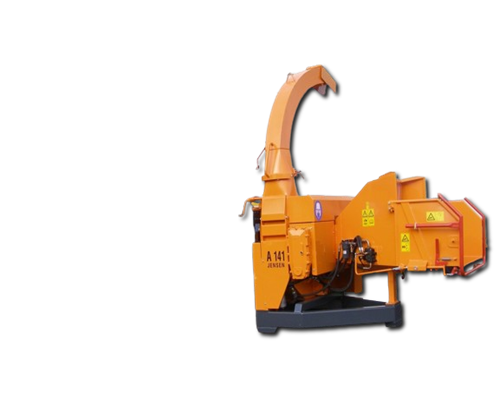
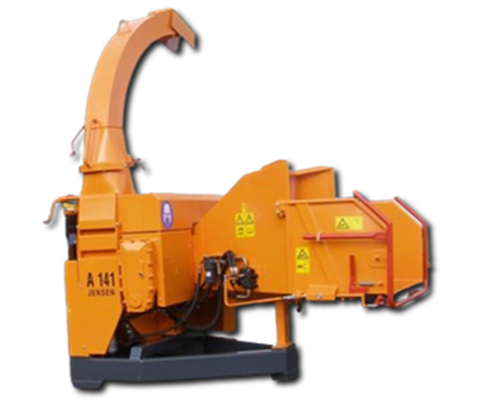
avanzando con imagenes pto

diff --git a/data/jensen.js b/data/jensen.js
@@ -219,7 +219,12 @@ export default [
     {
         "modelo":"A 141 XL PTO",
         "categoria":"Chipeadoras PTO",
-        "imagen":["/chipeadora/jensen/chipeadora_pto/A141-XL.png"],
+        "imagen":[
+            "/chipeadora/jensen/chipeadora_pto/A141-XL.png",
+            "/chipeadora/jensen/chipeadora_pto/A141-XL/A141-XL-SIN-FONDO-1.png",
+            "/chipeadora/jensen/chipeadora_pto/A141-XL/A141-XL-SIN-FONDO-2.png",
+            "/chipeadora/jensen/chipeadora_pto/A141-XL/A141-XL-SIN-FONDO-3.png"
+        ],
         "imagenPlano":"/chipeadora/jensen/chipeadora_pto/A141-XL/A141-XL-PLANO.jpg",
         "alt":"Chipeadora A 141 XL PTO",
         "descripcion":"Las Chipeadoras PTO son una excelente opción para usuarios con tractores o vehículos especiales. Son máquinas robustas, potentes y compactas. Todas las máquinas funcionan con un sistema hidráulico completamente independiente solo necesitando la alimentación del vehículo. El requisito de potencia del modelo A 141 XL PTO es de 82 [hp], y está disponible para montaje en tractores o vehículos con enganche de 3 puntos, con extensión cardánica o placa de montaje.",
@@ -238,7 +243,11 @@ export default [
     {
         "modelo":"A 231",
         "categoria":"Chipeadoras PTO",
-        "imagen":["/chipeadora/jensen/chipeadora_pto/A231.png"],
+        "imagen":[
+            "/chipeadora/jensen/chipeadora_pto/A231.png",
+            "/chipeadora/jensen/chipeadora_pto/A231/A231-PTO-SIN-FONDO-1.png",
+            "/chipeadora/jensen/chipeadora_pto/A231/A231-PTO-SIN-FONDO-2.png"
+        ],
         "imagenPlano":"/chipeadora/jensen/chipeadora_pto/A231/A231-PLANO.jpg",
         "alt":"Chipeadora A 231 PTO",
         "descripcion":"Las Chipeadoras PTO son una excelente opción para usuarios con tractores o vehículos especiales. Son máquinas robustas, potentes y compactas. Todas las máquinas funcionan con un sistema hidráulico completamente independiente solo necesitando la alimentación del vehículo. l requisito de potencia del modelo A231 PTO es de 75 [hp], y está disponible para montaje en tractores o vehículos con enganche de 3 puntos, con extensión cardánica o placa de montaje.",
@@ -257,7 +266,12 @@ export default [
     {
         "modelo":"A 328 ",
         "categoria":"Chipeadoras PTO",
-        "imagen":["/chipeadora/jensen/chipeadora_pto/A328.png"],
+        "imagen":[
+            "/chipeadora/jensen/chipeadora_pto/A328.png",
+            "/chipeadora/jensen/chipeadora_pto/A328/A328-SIN-FONDO-1.png",
+            "/chipeadora/jensen/chipeadora_pto/A328/A328-SIN-FONDO-2.png",
+            "/chipeadora/jensen/chipeadora_pto/A328/A328-SIN-FONDO-3.png",
+        ],
         "imagenPlano":"/chipeadora/jensen/chipeadora_pto/A328/A328-PLANO.jpg",
         "alt":"Chipeadora A 328 PTO",
         "descripcion":"Las Chipeadoras PTO son una excelente opción para usuarios con tractores o vehículos especiales. Son máquinas robustas, potentes y compactas. Todas las máquinas funcionan con un sistema hidráulico completamente independiente solo necesitando la alimentación del vehículo. El requisito de potencia del modelo A328 PTO es de 68 [hp], y está disponible para montaje en tractores o vehículos con enganche de 3 puntos, con extensión cardánica o placa de montaje.",
@@ -295,7 +309,10 @@ export default [
     {
         "modelo":"A 540 PTO",
         "categoria":"Chipeadoras PTO",
-        "imagen":["/chipeadora/jensen/chipeadora_pto/A540.png"],
+        "imagen":[
+            "/chipeadora/jensen/chipeadora_pto/A540.png",
+            "/chipeadora/jensen/chipeadora_pto/A540/A540-PTO-SIN-FONDO-1.png"
+        ],
         "imagenPlano":"/chipeadora/jensen/chipeadora_pto/A540/A540-PLANO.jpg",
         "alt":"Chipeadora A 540 PTO",
         "descripcion":"Las Chipeadoras PTO son una excelente opción para usuarios con tractores o vehículos especiales. Son máquinas robustas, potentes y compactas. Todas las máquinas funcionan con un sistema hidráulico completamente independiente solo necesitando la alimentación del vehículo. El requisito de potencia del modelo A540 PTO es de 40 [HP], y está disponible para montaje en tractores o vehículos con enganche de 3 puntos, con extensión cardánica o placa de montaje.",
@@ -314,7 +331,12 @@ export default [
     {
         "modelo":"A 530 XL",
         "categoria":"Chipeadoras PTO",
-        "imagen":["/chipeadora/jensen/chipeadora_pto/A530-XL.png"],
+        "imagen":[
+            "/chipeadora/jensen/chipeadora_pto/A530-XL.png",
+            "/chipeadora/jensen/chipeadora_pto/A530/A530-PTO-SIN-FONDO-1.png",
+            "/chipeadora/jensen/chipeadora_pto/A530/A530-PTO-SIN-FONDO-2.png",
+
+        ],
         "imagenPlano":"/chipeadora/jensen/chipeadora_pto/A530/A530-PLANO.jpg",
         "alt":"Chipeadora A 530 XL PTO",
         "descripcion":"Las Chipeadoras PTO son una excelente opción para usuarios con tractores o vehículos especiales. Son máquinas robustas, potentes y compactas. Todas las máquinas funcionan con un sistema hidráulico completamente independiente solo necesitando la alimentación del vehículo. El requisito de potencia del modelo A530 XL PTO es de 30 [hp], y está disponible para montaje en tractores o vehículos con enganche de 3 puntos, con extensión cardánica o placa de montaje.",
